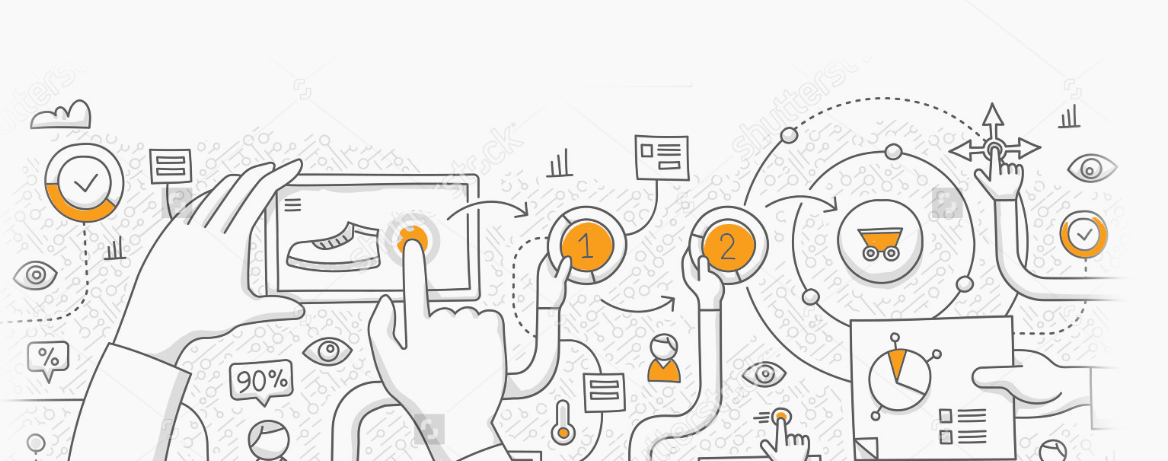
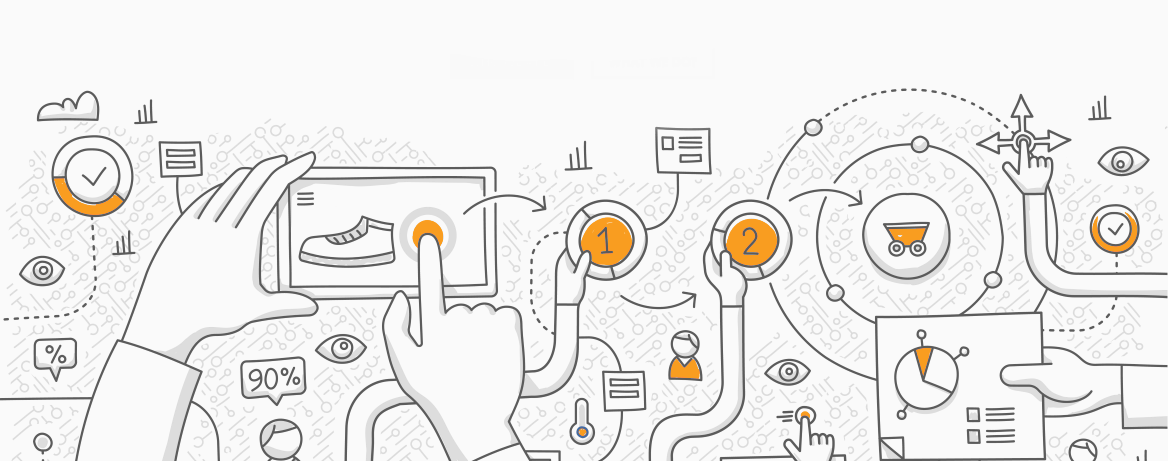
Added Facebook and Twitter metadata. Updated one stock image.

Changed region(s): [[0.0, 0.1822, 1.0, 1.0], [0.7089, 0.2126, 0.7397, 0.243]]

diff --git a/index.html b/index.html
@@ -8,6 +8,16 @@
 	<link href='https://fonts.googleapis.com/css?family=Open+Sans:400,700,600,600italic,700italic,800,800italic,400italic,300italic,300' rel='stylesheet' type='text/css'>
 	<link rel="stylesheet" href="https://maxcdn.bootstrapcdn.com/font-awesome/4.5.0/css/font-awesome.min.css">
     <link rel="stylesheet" href="https://cdn.rawgit.com/konpa/devicon/master/devicon.min.css">
+    <meta property="og:url" content="http://happyteam.io" />
+    <meta property="og:title" content="Happy Team's Official Website" />
+    <meta property="og:description" content="Happy Team is software company focused not only on providing solutions with speed and quality, but also having fun in the process!" />
+    <meta property="og:image" content="http://happyteam.io/images/facebook_preview.png" />
+    <meta name="twitter:card" content="summary_large_image">
+    <meta name="twitter:site" content="@happyteamio">
+    <meta name="twitter:creator" content="@happyteamio">
+    <meta name="twitter:title" content="Happy Team's Official Website">
+    <meta name="twitter:description" content="Happy Team is software company focused not only on providing solutions with speed and quality, but also having fun in the process!">
+    <meta name="twitter:image" content="http://happyteam.io/images/facebook_preview.png">
 </head>
 <body>
 	<div id="wrapper">
@@ -321,7 +331,7 @@
 									</div>
 									<span class="name">Marcin Biegała</span>
 									<span class="position">Happy Developer</span>
-									<p>Dev, motorcyclist, dreamer and coffee lover. He strive to be 1.01 developer. Every day starts with new idea for him.`</p>
+									<p>Dev, motorcyclist, dreamer and coffee lover. He strive to be 1.01 developer. Every day starts with new idea for him.</p>
 								</li>
 								<li>
 									<div class="img-holder second">
@@ -337,7 +347,7 @@
 									</div>
 									<span class="name">Jakub Waliński</span>
 									<span class="position">Happy Developer</span>
-                                    <p>Enthusiastic JS afficionado, doing his best to share his passion for the front-end at various international conferences. He is also managing our biggest project and the clients love that he has a deep understanding of their business model and problem domain.</p>
+                                    <p>Enthusiastic JS afficionado sharing his passion for the front-end at various international conferences. He is also managing our biggest project and the clients love his deep understanding of their business model and problem domain.</p>
 								</li>
 								<li>
 									<div class="img-holder forth">
